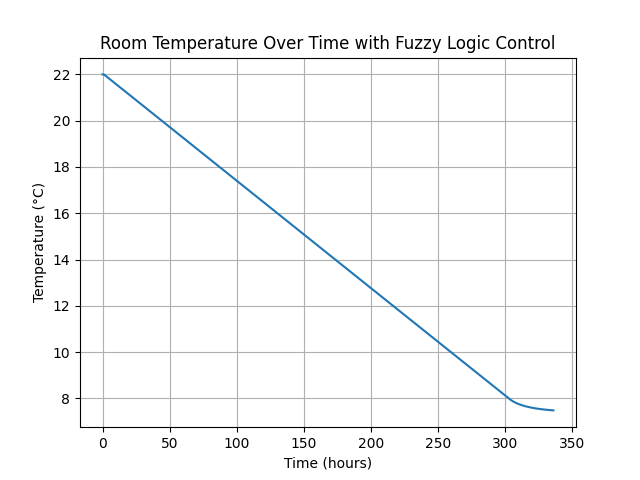
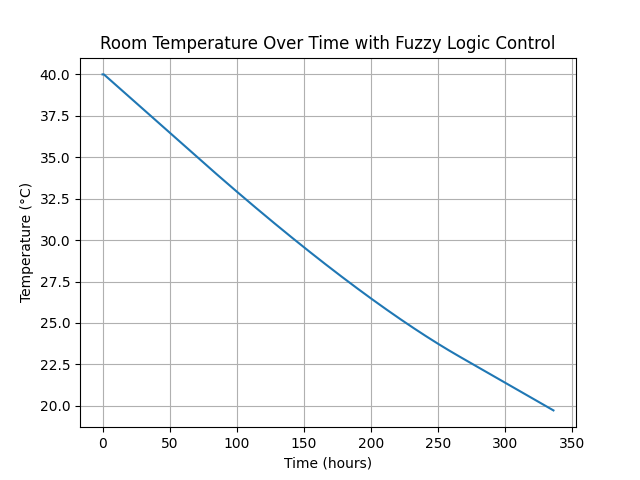
some results

diff --git a/json_parser.py b/json_parser.py
@@ -25,11 +25,9 @@ for index_day, day in enumerate(forecasts):
 #humidities = np.array(humidities) * np.random.uniform(1 - percent_noise / 100, 1 + percent_noise / 100, size=len(humidities))
 
 #Cubic Spline Interpolation
-#x = np.arange(0, 24*14, 1)
-
-
-outdoor_temp_by_hour = temps
-outdoor_humidity_by_hour = humidities
+x = np.arange(0, 24*14, 1)
+outdoor_temp_by_hour = CubicSpline(x, temps)
+outdoor_humidity_by_hour = CubicSpline(x, humidities)
 
 if __name__ == "__main__":
     for i in range(0, 24*14):

diff --git a/environment_simulator.py b/environment_simulator.py
@@ -45,7 +45,7 @@ def calc_new_temp_and_hum(temp, humidity, ac_heater_control, hour):
     thermal_conductivity = 0.002  # W/(m·K) Concrete
     wall_area = 20 * 3 * 4  # m^2 (4 walls, 3m tall, 20m wide)
     wall_thickness = 0.3 # m
-    temp_difference = temp - outdoor_temp_by_hour[hour]  # in Celsius
+    temp_difference = temp - outdoor_temp_by_hour(hour)  # in Celsius
 
     heat_loss = (thermal_conductivity * wall_area * temp_difference) / wall_thickness  # in Celsius
 

diff --git a/firstRun.py b/firstRun.py
@@ -9,7 +9,7 @@ from environment_simulator import calc_new_temp_and_hum
 controller = ctrl.ControlSystem(rules)
 simulator = ctrl.ControlSystemSimulation(controller)
 
-initial_temp = 22  # Initial room temperature in Celsius
+initial_temp = 40  # Initial room temperature in Celsius
 initial_hum = 50   # Initial room humidity in percentage
 initial_delta_temp = 0  # Initial change in temperature
 
